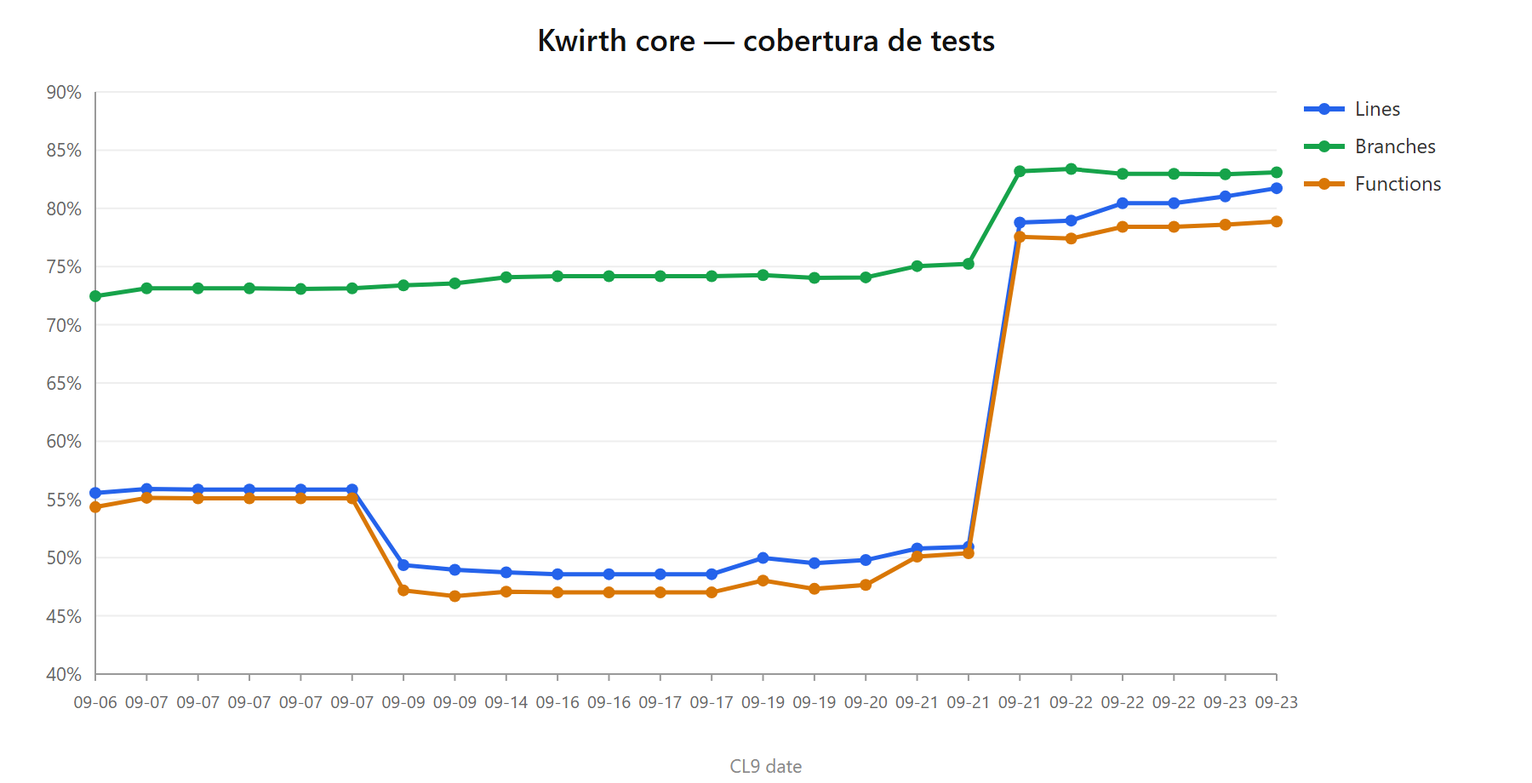
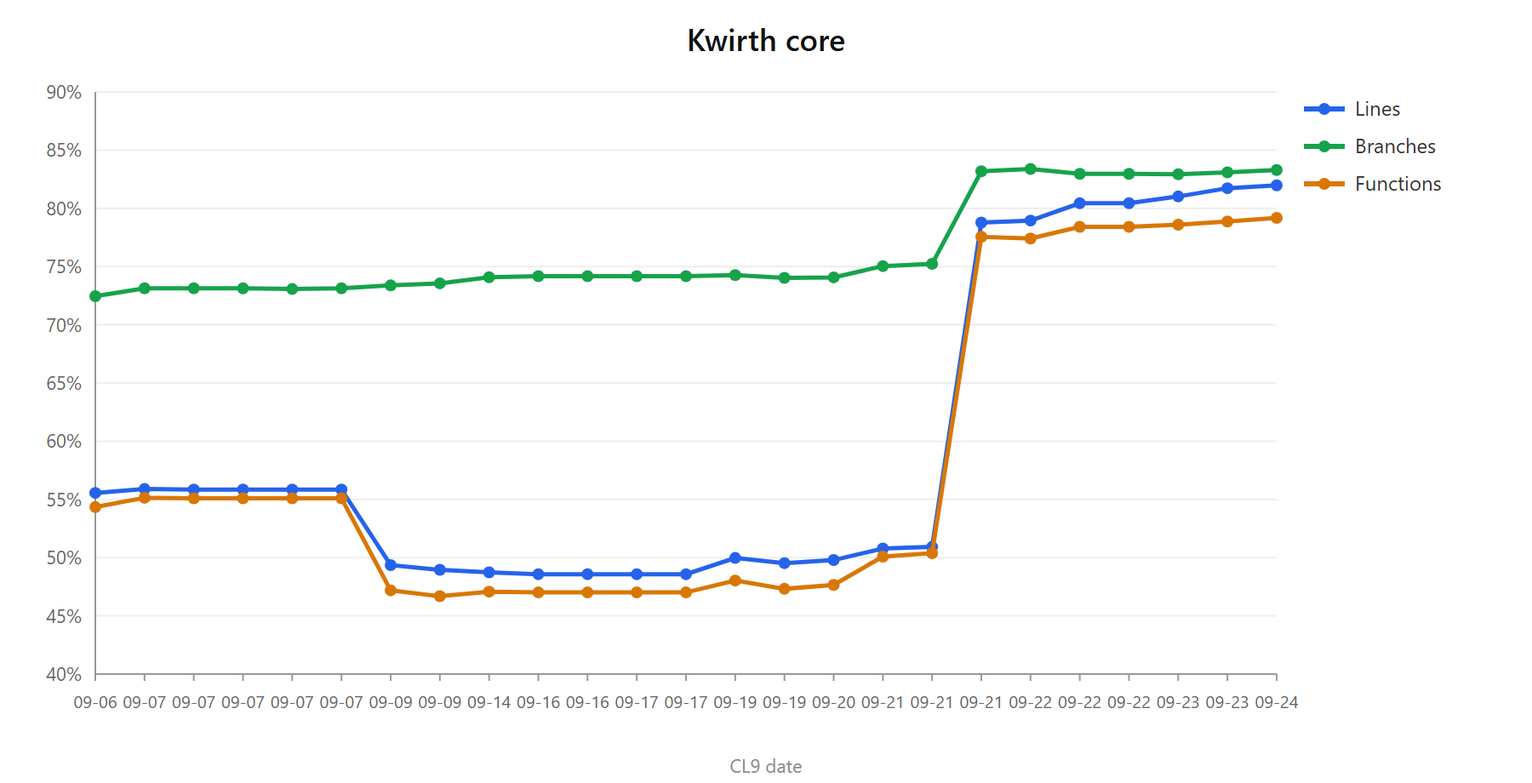
docs: retirar docker como fuente de la guia, y metricas del cierre
La documentacion prometia cosas que ya no son: el ejemplo de canal autonomo declaraba DOCKER en
sus sources, y las paginas de fileman, echo y news decian que funcionaban sobre targets Docker.
Las dos frases genericas de arquitectura que ponian Docker como ejemplo de 'fuente' pasan a
nombrar la unica que hay, o ninguna en el caso de un canal autonomo.

El historico de QA suma la fila del cierre y se regeneran sus dos PNG de una sola corrida de la
tool -que genera ambos, y llamarla dos veces deja un fichero de sobra-. El plan y el PRD recogen
la decision de abandonar docker-como-cluster con la prueba que la sostiene, y el descarte del
filtro de canales por sources: el core no decide por los plugins.

⚠ La corrida e2e completa queda aplazada por decision del usuario, para agruparla con otros
cambios; el recuento de specs y casos del historico es estatico.

diff --git a/plans/ecs/PLAN.md b/plans/ecs/PLAN.md
@@ -16,7 +16,7 @@ Cada stream cierra con su propia CL9 completa. **No hay fase de cierre acumulada
 
 ---
 
-## S1 — Arranque sin Kubernetes
+## S1 — Arranque sin Kubernetes ✅ (código completo el 2026-09-24, pendiente de QA manual)
 
 **MVP**: una tarea de ECS (Fargate) con la imagen actual arranca, sirve el front, permite login y
 persiste en EFS. Sin Kubernetes en ninguna parte, y **sin observar nada**: los canales autónomos
@@ -27,13 +27,13 @@ funcionan y eso ya es un despliegue completo.
 | S1.1 | **Capacidades en un solo sitio.** Una función que, del entorno detectado más las comprobaciones reales (¿socket del CRI?, ¿kubeconfig utilizable?), devuelva qué hay a mano y dónde se persiste. Es la pieza central del modelo (D1): todo lo demás pregunta aquí en vez de repetir condiciones sobre `runningEnv`. |
 | S1.2 | `getExecutionEnvironment()` aprende `ecs`: `ECS_CONTAINER_METADATA_URI_V4`, que el agente inyecta en **los dos** launch types. Va **antes** que la rama de Docker — en EC2 existe `/.dockerenv` y ganaría la partida. Escape por `FORCE`. |
 | S1.3 | `common`: publicar el entorno de ejecución en `KwirthData` en vez de tirarlo tras el `switch`, y **`EClusterType.NONE`** (D1-bis). Publicar `common` y subir la dependencia en back y front — no hay alias de TS, el back consume el paquete publicado. |
-| S1.4 | `clusterType` pasa a rellenarse **desde las capacidades**, no desde el entorno: hay socket → `DOCKER`, hay API de kube → `KUBERNETES`, ninguna → `NONE`. Con esto se enciende el **cable 1** de D2 y el camino de contenedores deja de estar cortocircuitado. |
-| S1.5 | **Cable 2** de D2: instanciar `clusterInfo.dockerApi` y `clusterInfo.dockerTools` cuando hay socket. Hoy no los asigna nadie y el primer `dockerTools.getAllPods()` reventaría. |
+| S1.4 | `clusterType` pasa a rellenarse **desde las capacidades**, no desde el entorno: hay API de kube → `KUBERNETES`, no la hay → `NONE`. |
+| S1.5 | Retirada de Docker como fuente de recursos (D2): el enum, `DockerTools`, `dockerode`, las ramas de `index.ts`, `ConfigApi` y el front, y los nueve plugins que lo declaraban. |
 | S1.6 | `createRunningInstance()` deja de exigir Kubernetes: sin kubeconfig utilizable no se construyen los clientes, no se llama a `readNamespace('kube-system')`, ni a `setKubernetesClusterName()`, ni a `getNodes()`. **No es un `try/catch` más ancho**: es una rama explícita, porque un `catch` que se traga el fallo convierte "no hay cluster" y "el cluster no responde" en el mismo silencio. |
 | S1.7 | Almacenamiento según capacidades: fichero (`NodeSecrets` + `NodeConfigMaps`, cifrado con `MASTERKEY`) o ConfigMap/Secret. Hoy la rama de fichero existe pero vive detrás del `else` de Kubernetes ([index.ts:400](../../back/src/index.ts#L400)). |
 | S1.8 | Identidad: `clusterName` de `KWIRTH_CLUSTER_NAME` o del metadata de ECS (cluster ARN / familia de tarea). |
 | S1.9 | Healthcheck (**D4**): que el ALB tenga algo a lo que preguntar, siempre, no sólo `inCluster`. |
-| S1.10 | Canales y providers de Kubernetes (**D5**): `metrics` y `events` no se arrancan si no hay API de kube, y el log de arranque lo dice con todas las letras. |
+| ~~S1.10~~ | **Descartado.** Se llegó a filtrar canales por sus `sources` y a no registrar `events`/`metrics` sin API de kube. Se retiró: **el core no decide por los plugins**. Un plugin arranca encima y se conecta a lo que pueda, y `sources` no decidía nada en ninguna parte —el front sólo lo imprimía como texto— hasta que este filtro le dio un significado que no tenía. |
 | S1.11 | Front: que `NONE` se entienda. [ResourceSelector.tsx:365](../../front/src/components/home/ResourceSelector.tsx#L365) decide el icono por la primera letra del valor, y [ManageClusters.tsx:80](../../front/src/components/home/ManageClusters.tsx#L80) lo enseña tal cual. Un Kwirth que no observa nada tiene que verse como lo que es, no como un desconocido. |
 | S1.12 | Log de arranque: entorno detectado, capacidades resultantes y **por qué** cada una. Es la primera herramienta de diagnóstico de quien despliega esto. |
 
@@ -47,7 +47,42 @@ funcionan y eso ya es un despliegue completo.
 - [ ] `docker compose` local: el canal de **log** funciona contra los contenedores, con los proyectos compose agrupados como "pods". Es el camino que estaba escrito y sin cablear, y en EC2 de ECS es exactamente el mismo.
 - [ ] **Regresión**: los tres entornos de hoy (in-cluster, desktop, contenedor con kubeconfig) se comportan **exactamente** igual que antes. Es el riesgo real de S1, porque se toca el único camino de arranque que existe.
 
-**CL9** al terminar. Los e2e de S1 necesitan decidirse: el arranque en ECS no es reproducible en el dev local, así que el harness cubre la **detección** y la **selección de almacenamiento** por unitarios, y el e2e cubre la regresión de los entornos existentes.
+### Lo que se encontró al implementarlo
+
+Tres cosas que el análisis previo no había visto y que habrían roto el arranque en Fargate:
+
+1. **`loadFromDefault()` también había que meterlo dentro de la rama.** El plan sólo contemplaba no
+   construir los clientes; pero cargar el kubeconfig, donde no hay ninguno, puede quejarse de que no hay
+   contexto actual — y esa excepción cae en el mismo `catch` que dejaba a Kwirth sin instancia. El síntoma
+   habría sido idéntico al que se quería arreglar.
+2. **Había una segunda detección de entorno**, en `runningEnv`, con reglas parecidas pero no idénticas a
+   las de `getExecutionEnvironment()`. Dos detecciones del mismo hecho acaban discrepando, así que ahora
+   `runningEnv` se deriva de la única. De paso desapareció `isDocker`, que ya no consultaba nadie.
+3. **Un segundo `switch` sobre el entorno**, el que elige qué arranque lanzar, con los mismos `case`
+   muertos. `launchDocker` pasó a `launchStandalone` y lo comparten `docker` y `ecs`: siguen exactamente
+   el mismo camino, y lo que cambia entre ellos son las capacidades, que ya vienen resueltas.
+
+Y un defecto latente en el front: `getIcon()` decidía por la **primera letra** del tipo de cluster, así
+que con `none` (`'n'`) no entraba en ninguna rama y **devolvía `undefined`**.
+
+### Cómo se verificó
+
+Sin ECS, levantando el back con el entorno forzado y almacenamiento en un directorio temporal:
+
+| escenario | resultado |
+|---|---|
+| **UC1** dev normal (Kubernetes) | `executionEnvironment: kubernetes`, `clusterType: kubernetes`, los 11 canales arrancan. Sin regresión |
+| **UC5** `docker run` con la imagen **anterior** | `clusterType: kubernetes`, busca `kube-system` en `localhost:8080` y acaba en `Cannot get a running instance`. El contenedor queda vivo pero devolviendo `503` — la prueba de que esa vía no estaba viva |
+| ECS sin kubeconfig (Fargate) | `executionEnvironment: ecs`, `clusterType: none`, `/healthz` 200, y el usuario admin creado y **cifrado** en el volumen |
+
+**UC2** (magnify desktop), **UC3** (Kwirth en docker con kubeconfig) y **UC4** (ECS con kubeconfig) no se
+verificaron aquí a propósito: los tres exigen conectarse a un cluster real con los plugins cargados, y eso
+puede disparar senders o webhooks de verdad. Van al QA manual.
+
+**CL9**: el harness cubre la detección, las capacidades y el store (14 casos nuevos, con las dos
+comprobaciones de máquina inyectadas para que no dependan de dónde se corra). El e2e cubre la parte
+observable —el entorno publicado, `/healthz` fuera del cluster y la coherencia de los canales
+anunciados— porque montar ECS en un e2e exigiría ECS.
 
 ---
 
@@ -115,6 +150,34 @@ type, los contenedores de su instancia.
 **CL9** al terminar.
 
 ---
+
+## Pendiente al cerrar el proyecto
+
+- **Publicar el back.** Lleva el bump de `kwirth-common` a `0.5.56` en su `package.json` desde el
+  2026-09-24, pero su publish en npm se hace **al terminar ECS**, no stream a stream. Decisión del
+  2026-09-24.
+- **Corrida e2e completa.** Aplazada el 2026-09-24 para agruparla con otros cambios: tarda ~33 min y dos
+  tandas se invalidaron por reinicios del back en mitad. Los 4 casos del spec nuevo sí pasan.
+- **`agora` no compila**, por `EInfraSource.CLOUD` —que el enum no declara— en `azureSignals.ts` y su
+  test. Es trabajo previo, ajeno a esto, y quedó **aparcado por decisión del usuario**. Mientras no
+  compile no se puede reconstruir su `dist`, así que seguirá mostrando el hueco en sus `sources`.
+- **Actualizar los plugins instalados.** Publicar no actualiza lo que un Kwirth tiene puesto: en el dev,
+  `log` seguía en 0.2.23 y por eso mostraba `[,kubernetes]`. Hay que actualizarlos desde el gestor.
+
+## Hallazgos laterales, al backlog
+
+- Las entradas de **docs** en el manifest privado se llaman `Kwirth <X> — Guide`, pero el criterio de los
+  artefactos de pago es `IRIA <Producto> — Guide`. Visto al clonar las entradas de spectrum, sugarless y
+  asteroids; **no se tocó** para no cambiar naming publicado de paso.
+
+## Publicaciones hechas
+
+| fecha | artefacto | versión | por qué |
+|---|---|---|---|
+| 2026-09-24 | `kwirth-common` | 0.5.55 | `EExecutionEnvironment`, `EClusterType.NONE` y el campo `executionEnvironment` |
+| 2026-09-24 | `kwirth-common` | 0.5.56 | `EClusterType.DOCKER` retirado del enum (D2) |
+| 2026-09-24 | `log` 0.2.24 · `alert` 0.2.25 · `status` 0.2.2 · `news` 0.2.24 · `sender-debug` 0.1.1 · `echo` 0.2.24 · `mirc` 0.1.14 · `fileman` 0.2.24 · `provider-debug` 0.1.5 | — | los nueve declaraban `DOCKER` en sus `sources`; `log` y `alert` además tenían `startDockerStream()`. npm + manifest público |
+| 2026-09-24 | `spectrum` 0.4.3 · `sugarless` 0.2.3 · `asteroids` 0.1.7 | — | lo mismo, en los privados. Nexus + manifest privado, **plugin y docs en lockstep** |
 
 ## Riesgos
 

diff --git a/docs/qa/test-metrics-history.md b/docs/qa/test-metrics-history.md
@@ -38,6 +38,7 @@
 
 | Fecha | Cierre | Harness | Cobertura (líneas / ramas / funcs) | e2e | Notas |
 |---|---|---|---|---|---|
+| 2026-09-24 | Kwirth arranca sin Kubernetes (S1 de ECS) | **455** ✅ | **81.98 % / 83.29 % / 79.18 %** | 40 specs · 135 casos ⚠ | **Todo camino de arranque presuponía un cluster alcanzable, así que Kwirth no podía correr donde no hay Kubernetes.** `createRunningInstance()` montaba siempre los clientes de Kubernetes y pedía el uid de `kube-system`; sin cluster eso lanzaba, lo tragaba el `catch` y el arranque terminaba **sin instancia** — con el proceso vivo escuchando y devolviendo `503`, que es el peor modo de fallo porque parece arrancado. En **Fargate** ni se llegaba ahí: no existe `/.dockerenv` (es containerd), así que el entorno salía `undetected` y el proceso se cerraba. Ahora el entorno de ejecución se detecta con `ecs` incluido, **se publica** en `KwirthData` en vez de perderse al acabar el switch, y de él se derivan en **un solo sitio** (`ExecutionEnvironment.ts`) las capacidades que el arranque necesita: si hay API de Kubernetes y dónde se persiste. Los clientes de Kubernetes —y el propio `loadFromDefault()`, que también puede quejarse sin kubeconfig— quedan dentro de una **rama explícita**, no de un `catch` más ancho: un `catch` convierte "aquí no hay cluster, y está bien" y "el cluster no responde, y eso es un problema" en el mismo silencio. `/healthz` deja de estar atado a `inCluster`, porque un balanceador que no obtiene respuesta recicla la tarea en bucle sin decir por qué. **Y se retiró Docker como fuente de recursos**: se comprobó con un `docker run` sobre la imagen publicada que esa vía **no estaba viva** (`clusterType: kubernetes`, `FetchError` contra `localhost:8080`, `Cannot get a running instance`) — nadie producía `EClusterType.DOCKER` y nadie asignaba `clusterInfo.dockerTools`. Fuera el enum (`common` 0.5.56), `DockerTools.ts`, `dockerode`, `watchDockerPods()`, 10 ramas entre `index.ts` y `ConfigApi.ts`, 8 usos de `isDocker` en el front —incluido un `if/else` con **las dos ramas idénticas**— y `startDockerStream()` de `log` y `alert`. ⚠ **El enum es un contrato de RUNTIME**: los plugins no empaquetan `kwirth-common`, lo resuelven contra el global del core, así que quitarle un valor deja en `undefined` a todo `dist` ya construido que lo nombre — lo destapó el usuario viendo `[,kubernetes]` en la lista de sources. Por eso hubo que republicar **12 artefactos**: 9 plugins públicos y 3 privados (con sus docs en lockstep). **+14 tests** sobre la detección, las capacidades y el store, con la comprobación de kubeconfig **inyectada** para que no dependan de la máquina donde se corran. ⚠ **La corrida e2e completa NO se hizo**: se aplazó por decisión del usuario para agruparla con otros cambios; el recuento de specs y casos es estático. Sí pasan los 4 casos del spec nuevo `execution-environment`, y el QA manual validó log, el selector de recursos y los nueve canales republicados. |
 | 2026-09-23 | Actualizar una extensión sin desinstalarla | **441** ✅ | **81.73 % / 83.09 % / 78.87 %** | 31 specs · 143 casos | **Subir de versión obligaba a desinstalar primero, y eso se lleva por delante la configuración.** El `install()` de los managers ya reemplazaba por dentro todo lo que hay que reemplazar —índice, código cacheado, módulo del back recargado con `delete require.cache`—: lo único que lo impedía era un guardián copiado nueve veces que rechazaba cualquier id ya instalada. Ahora el permiso es **explícito** (`upgrade` en el POST) y vive en **un solo sitio**, `tools/ExtensionInstallGuard.ts`, que además impide ir hacia atrás: volver a una versión anterior deja el índice diciendo una cosa y la configuración, que no se toca, pensada para otra. **Y lo instalado pasa a ser EXACTAMENTE lo que trae el paquete.** Varias escrituras eran condicionales (`if (meta.frontStored) write(...)`), y saltarse una no deja la clave vacía: la deja con el contenido de la versión ANTERIOR. Un login que deja de traer fondo seguía pintando el de antes; un sender cuyo front deja de caber en el ConfigMap seguía sirviendo el viejo; un provider que retira su esquema seguía enseñando su formulario. Las seis escrituras condicionales pasan a `write(clave, cabe ? valor : null)`, que **borra**. En el front, la acción nueva entra en `ExtensionManagerDialog` —el genérico— así que sale de una vez en los **once tipos y en las dos vistas**, tarjeta y lista; va **entre configurar y la papelera** y está **siempre visible**, deshabilitada con el motivo, porque un botón que aparece y desaparece mueve la papelera al sitio donde estaba el update de la fila de arriba. **Tres casos que el aviso de reinicio no sabía decir**: `ERestartAction.UPDATE` con su propio texto —la extensión no es que no vaya a funcionar, es que sigue funcionando la de ANTES— y se mira `requiresRestart` en **las dos**, la que se va y la que llega, porque el router de la vieja sigue montado aunque la nueva ya no declare ninguno. Un **pack** es el único que no se actualiza en sitio (instalarlo rechaza también si alguno de sus miembros está puesto) y el botón lo dice en vez de ofrecer algo que va a fallar. **+14 tests** (el guardián suelto, y de punta a punta sobre `LoginManager` y `SenderManager`: que el fondo y el front de la versión anterior desaparecen, y que no se borra de más cuando la nueva sí los trae) **+1 spec e2e con 6 casos**, que no pulsa ningún update —actualizar de verdad cambiaría las extensiones del usuario— y fija en una lista los ocho tooltips posibles del botón. ⚠ De paso se arregló un defecto del propio e2e: `extension-catalogs` usaba `isVisible({ timeout })`, que **no espera** por mucho timeout que se le pase, así que los últimos de los once diálogos se preguntaban con la máquina cargada y respondían que no había catálogo cuando lo que faltaba era un pintado. |
 | 2026-09-23 | 0.6.31 | **427** | **81.02% / 82.93% / 78.60%** | 30 / 84 | **Una extension rota deja de tumbar la aplicacion, y las extensiones que RECIBEN dejan de pelearse con el core.** Cuatro arreglos que salieron de un mismo dia de trabajo con un provider de ingesta y un sender de log: **(1)** `getChannelIconSafe` aceptaba como valido un icono cuyo `type` era un objeto —un plugin con un deep import recibe el BARREL entero, y un objeto es truthy—, asi que la home se quedaba EN BLANCO con un simple 'got: object'; ahora se comprueba que el tipo sea renderizable y los seis sitios que pedian el icono a pelo pasan por ahi. **(2)** `ChannelErrorBoundary`: un canal que revienta al pintarse se lleva SU pestaña y un mensaje con su nombre, no la aplicacion. **(3)** El `bodyParser.json()` global se aplicaba antes que los routers publicos de los providers, asi que una extension de ingesta recibia el cuerpo ya parseado —imposible soportar ndjson— y con el limite de 100 kB, que un recolector de log supera sin esfuerzo; ahora existe **`rawBody`** en `IProvider` con un middleware que pone `express.raw` por delante (el patron que ya usaban los webhooks) y el limite es configurable con **`BODYLIMIT`**. **(4)** Node cierra las conexiones ociosas a los 5 s y quien nos envia las REUTILIZA: se sube a 65 s, configurable con **`KEEPALIVE`**, porque del otro lado ese corte se lee como 'kwirth no esta escuchando'. Y dos que destapo el QA del reenvio: **un sender recargado en dev perdia sus configuraciones en silencio** (el rebuild tira la instancia y la nueva nacia vacia; la lista seguia mostrandolas porque sale del almacen del core, no de la instancia), y **un booleano apagado no se guardaba**, solo se omitia — asi que una extension cuyo defecto fuera `true` lo volvia a encender y el interruptor se veia apagado mientras se comportaba como encendido. |
 | 2026-09-22 | Entrega por LOTES y el origen dentro del mensaje (S1 del reenvío de log) | **426** ✅ | 80.44 % / 82.96 % / 78.41 % | 37 specs · 121 casos | Primer stream de la cadena Fluent Bit → kwirth → destino. `send` entrega **un mensaje por llamada** con su propio `await`: perfecto para un aviso, inviable para un caudal de log —un round trip por línea— cuando los destinos que se comen volumen aceptan arrays y **cobran por petición**. Se añade `sendBatch?()` **opcional** en `ISenderAccess` (`kwirth-common@0.5.54`) y en `ISender` (`kwirth-common-back@0.5.48`), con un `await` por **lote**, y `SenderManager.sendBatch()` lo reparte: una llamada a quien lo implemente, **entrega de uno en uno a quien no** — esa compatibilidad es lo que hace que el contrato pueda ser opcional sin romper a ningún sender existente. Y el **origen viaja en el mensaje**: `ISenderMessageOrigin` (cluster, namespace, pod, container, source, service, timestamp) como **campo propio**, no dentro de `metadata`, que es JSON libre — un acuerdo tácito ahí se rompe en cuanto hay dos senders, y un destino solo puede etiquetar lo que le llega etiquetado. **+8 tests**: el lote llega entero en una llamada, el orden se respeta en el camino de compatibilidad, el origen llega intacto, un fallo **no sube al llamante** (el reenvío no puede tumbar a quien produce el log) y una línea que falla no cancela las siguientes. ℹ Sin e2e: es contrato sin consumidor todavía —nadie llama a `sendBatch` hasta el S3— y no tiene UI; su QA fue de no regresión de los senders vivos. ⚠ Lección de secuencia: se publicaron los contratos y se siguió tocando el core mientras npm propagaba, dejando el back del usuario sin compilar. Publicar, **esperar a poder instalar**, y entonces tocar el core. |

diff --git a/plans/ecs/PRD.md b/plans/ecs/PRD.md
@@ -73,16 +73,16 @@ resuelto por el propio cluster:
 
 ### 4.3 Qué puede observar desde ECS
 
-- **Nada** — y es una configuración completa, no un arranque a medias. Los canales autónomos funcionan,
-  el front se sirve, los usuarios entran y los providers de ingesta reciben. Es el caso que hoy es
-  imposible, porque el arranque exige un cluster.
-- **Kubernetes** — con kubeconfig montado (EFS o Secrets Manager). Es el modo que ya funciona.
-- **Cloud** — vía los providers correspondientes, con las credenciales que cada uno pida.
-- **Otros servicios ECS** — dos caminos, y no dan lo mismo:
-  - **EC2 launch type**: bind-mount de `/var/run/docker.sock` → los contenedores de *esa* instancia, como
-    el modo Docker local. Sólo esa instancia, no el cluster ECS entero.
-  - **Fargate**: no hay socket ni acceso al host. El camino es la **ingesta**: FireLens (Fluent Bit como
-    sidecar) mandando el log de las otras tareas al provider `fluentbit`, o OTLP al provider `otel`.
+- **Kubernetes** — con kubeconfig montado (EFS o Secrets Manager). Los canales funcionan **exactamente
+  igual** que en un Kwirth in-cluster: la conexión es por la API de Kubernetes con las credenciales del
+  kubeconfig, y eso es transparente para ellos. El core no hace nada especial.
+- **Nada** — y es una configuración completa, no un arranque a medias: el front se sirve, los usuarios
+  entran, los canales autónomos funcionan, los providers de ingesta reciben, y desde ahí se **federa**
+  contra otro Kwirth. Es el caso que hoy es imposible, porque el arranque exige un cluster.
+- **Cloud** — vía los providers correspondientes, con las credenciales que cada uno pida. Un plugin
+  arranca y se conecta a lo que pueda; eso no es asunto del core.
+
+> **Lo que NO hace**: gestionar las tareas o los contenedores de ECS como recursos propios. Ver **D2**.
 
 ### 4.4 Documentación y ejemplos
 
@@ -130,48 +130,60 @@ están repartidas entre `runningEnv.isDesktop`, `runningEnv.isDocker`, `kwirthDa
 `clusterType` a lo largo de todo el arranque, y esa dispersión es lo que hace que añadir un entorno nuevo
 sea un trabajo de riesgo.
 
-| entorno | socket CRI | API de Kubernetes | store |
-|---|---|---|---|
-| `kubernetes` (in-cluster) | no | sí | ConfigMap/Secret |
-| `docker` | **sí** (compose incluido) | si hay kubeconfig | fichero |
-| `desktop` | no | kubeconfig local | fichero |
-| `ecs` / EC2 | **sí** (bind-mount del socket) | si hay kubeconfig | fichero (EFS) |
-| `ecs` / Fargate | no | si hay kubeconfig | fichero (EFS) |
+| entorno | API de Kubernetes | store |
+|---|---|---|
+| `kubernetes` (in-cluster) | sí, no es opcional | ConfigMap/Secret |
+| `docker` | si hay kubeconfig | fichero (formato histórico) |
+| `desktop` | kubeconfig local | fichero cifrado |
+| `ecs` (los dos launch types) | si hay kubeconfig | fichero cifrado (EFS) |
 
-> **ECS sobre EC2 no necesita código de observación nuevo: es el camino de Docker corriendo en otro
-> sitio.** Desbloquear Docker y desbloquear ECS son el mismo trabajo, no dos.
+> El socket del CRI no aparece en esta tabla: ver **D2**. Los cuatro entornos observan un cluster o no
+> observan nada, y en los dos launch types de ECS la respuesta es la misma — lo que cambia entre Fargate
+> y EC2 no afecta a lo que Kwirth puede hacer.
 
 > **D1-bis. `EClusterType` gana `NONE`.** Hace falta de verdad: en Fargate sin socket y sin kubeconfig no
 > hay ni contenedores ni pods, y declararse `KUBERNETES` haría que el front saliera a listar pods contra
 > nada. Afecta a [ResourceSelector.tsx:365](../../front/src/components/home/ResourceSelector.tsx#L365),
 > que decide el icono por la **primera letra** del valor (`'d'` → Docker, `'k'` → Kubernetes).
 
-**D2. `EClusterType.DOCKER` se revive. ✅ Validado.** Se le da detección real en vez de retirarlo, porque
-es el camino por el que Kwirth ve contenedores —los de un `docker compose` local, o los de una instancia
-EC2 de ECS— a través de `/var/run/docker.sock`. Sin eso, EC2 se queda con lo mismo que Fargate y el launch
-type deja de aportar nada.
+**D2. Docker deja de ser una fuente de recursos, y se retira. ✅ Decidido el 2026-09-24.**
 
-Y no es trabajo de implementación, es de **cableado**. Lo que hay ya:
+> Esta decisión **sustituye** a la anterior, que era revivir `EClusterType.DOCKER` dándole detección real.
+> Se mantiene escrita abajo porque explica lo que se encontró, y porque el estado del código era lo que
+> llevó a proponerlo.
 
-- `DockerTools` ([DockerTools.ts](../../back/src/tools/DockerTools.ts)) entiende **compose**: lee las
-  labels `com.docker.compose.project` y `.service`, mapea proyecto → "pod" y servicio → "container", y
-  cuelga los contenedores sueltos del pseudo-pod `$docker`.
-- Las ramas que lo consumen están escritas en los cuatro puntos que el canal de log necesita:
-  `watchPods` ([index.ts:697](../../back/src/index.ts#L697)), la resolución de pods
-  ([:721](../../back/src/index.ts#L721)), la validación de nombres
-  ([:1172](../../back/src/index.ts#L1172)) y `ConfigApi` ([:200](../../back/src/api/ConfigApi.ts#L200)).
+Kwirth **no va a gestionar contenedores ni proyectos de `docker compose` como si fuesen un cluster**.
+Docker sigue siendo un sitio **donde correr** —eso lo dice `EExecutionEnvironment`—, y desde ahí se
+federa contra otro Kwirth o se apunta a un cluster montando un kubeconfig, que es el caso paralelo a ECS.
 
-Lo que falta son **dos cables**:
+Se comprobó **empíricamente** que esa vía no estaba viva, con un `docker run` sobre la imagen publicada:
 
-1. **Nadie produce `EClusterType.DOCKER`.** Sólo salía de los `case 'windowsdocker'/'linuxdocker'`
-   ([index.ts:2812](../../back/src/index.ts#L2812)), que la detección no devuelve. El `exenv === 'docker'`
-   que sí se detecta acaba en `clusterType: KUBERNETES` ([:2822](../../back/src/index.ts#L2822)): el
-   camino de contenedores queda cortocircuitado hacia el de kubeconfig.
-2. **Nadie asigna `clusterInfo.dockerApi` ni `clusterInfo.dockerTools`.** Están declarados con `!` en
-   [ClusterInfo.ts:30](../../back/src/model/ClusterInfo.ts#L30) —"confía, alguien los rellenará"— y no hay
-   un solo `new DockerTools(...)` en el back. El único `new Docker()` es el que `ConfigApi` se hace para
-   sí mismo ([:19](../../back/src/api/ConfigApi.ts#L19)). Encender sólo el cable 1 reventaría en el primer
-   `dockerTools.getAllPods()`.
+```
+"clusterName": "inDocker",
+"clusterType": "kubernetes",        ← no 'docker'
+FetchError: request to http://localhost:8080/api/v1/namespaces/kube-system failed
+Cannot get a running instance
+```
+
+El contenedor se queda vivo escuchando en el 3883 pero **sin instancia**: cualquier petición responde
+`503`. Es el peor modo de fallo, porque parece arrancado.
+
+Por qué no podía funcionar, y son dos motivos independientes:
+
+1. **Nadie producía `EClusterType.DOCKER`.** Sólo salía de los `case 'windowsdocker'/'linuxdocker'`, que
+   la detección no devolvía nunca; el `'docker'` que sí se detectaba asignaba `KUBERNETES`.
+2. **Nadie asignaba `clusterInfo.dockerApi` ni `dockerTools`.** Estaban declarados con `!` y no había un
+   solo `new DockerTools(...)` en el back.
+
+Lo que sí estaba escrito —y era bueno— es que **`dockerTools` no era código muerto del core: era API que
+el core ofrecía a los plugins**. Los canales `log` y `alert` tenían su `startDockerStream()` completo,
+eligiendo por `clusterInfo.type`. Esa es la parte que se retira.
+
+Alcance de la retirada: `EClusterType.DOCKER` fuera del enum (`common` 0.5.56), `DockerTools.ts` borrado,
+`dockerode` fuera de las dependencias del back, `watchDockerPods()` y las ramas de `index.ts` y
+`ConfigApi.ts` eliminadas, `dockerApi`/`dockerTools` fuera de `ClusterInfo`, las ramas `isDocker` del
+`ResourceSelector` del front, y los **nueve plugins** que declaraban `DOCKER` en sus `sources` —`log` y
+`alert` además con su `startDockerStream()`.
 
 **D3. Detección de ECS: señal canónica + escape.** `ECS_CONTAINER_METADATA_URI_V4`, que el agente inyecta
 en **los dos** launch types, más `FORCE=ecs` para poder forzarlo. La comprobación va **antes** que la de

diff --git a/plans/README.md b/plans/README.md
@@ -28,9 +28,10 @@ meses después — que es exactamente lo que pasaba antes de escribir este índi
 | [geppetto](geppetto/PRD.md) | analizador LLM de propósito general (PRD) | la decisión 6; sin código todavía |
 | [pluvider](pluvider/PLAN.md) · [PRD](pluvider/PRD.md) | un plugin que además expone su información in-process | MVP en producción (agora y montag publican, provider-debug consume); queda la fase 2: `ask()`, `publications[]` y el descubrimiento en runtime |
 | [gate](gate/PRD.md) | la pantalla de acceso como extensión programable | borrador |
-| [ecs](ecs/PLAN.md) · [PRD](ecs/PRD.md) | desplegar Kwirth en AWS ECS (Fargate y EC2) con la misma imagen | todo. Bloqueado por las decisiones del PRD §6: hoy el core **no arranca sin un Kubernetes alcanzable**, así que antes de los ejemplos hay que desbloquear el arranque |
+| [ecs](ecs/PLAN.md) · [PRD](ecs/PRD.md) | desplegar Kwirth en AWS ECS (Fargate y EC2) con la misma imagen | **S1 hecho**: el core ya arranca sin Kubernetes, y de paso se retiró Docker como fuente de recursos (12 artefactos republicados). Quedan S2 (qué se observa), S3 (el proyecto `ecs/` con los ejemplos) y S4 (documentación). Pendientes del cierre: publicar el back y una corrida e2e completa |
 | [config-portability](config-portability/PLAN.md) · [PRD](config-portability/PRD.md) | llevarse la configuración de un Kwirth a otro | core, front y las open source con configuración, hechos; quedan Excubitor y Agora, que son la prueba de fuego |
 | [previous-container-log](previous-container-log/PLAN.md) | ver en el About el log del contenedor anterior cuando el core reinicia | en producción; solo queda el S2 (el ajuste en los settings, que arrastra publicar `kwirth-common`) |
+| [provider-handle](provider-handle/PLAN.md) | lo que el core entrega a un consumidor deja de ser el `IProvider` real: un handle por (canal, instancia) | todo, sin empezar. Espera a que termine el refactor en curso del core. Lleva además dos averías abiertas en su backlog: `started` significa "router montado" y no "arrancado", y el registro de aristas borra la arista con la primera baja |
 
 ## Cerrados
 

diff --git a/docs/0.6.31/developing/back.md b/docs/0.6.31/developing/back.md
@@ -43,7 +43,7 @@ interface IChannel {
 
 And this is a short explanation on each function:
 
-  - `getChannelData`. The back channel must implement this function to inform kwirth core which capabilities does it support. This refers to things like 'pausing', 'reconnecting', source support (Kubernetes, MesOS, Docker...), routing, metrics, etc.
+  - `getChannelData`. The back channel must implement this function to inform kwirth core which capabilities does it support. This refers to things like 'pausing', 'reconnecting', source support (Kubernetes, or none for an autonomous channel), routing, metrics, etc.
   - `getChannelScopeLevel`. Your channel may need to offer different scope levels to your users. For example, in the metrics channel the clients can just do SNAPSHOT (obtaining a set of metrics and its values) or do STREAM (that is, obtaining metrics through a stream of data implemented as an instance inside a WebSocket). This function returns an id that kwirth core uses for deciding if a specific user has an Access Key with a scope for performing the function he requested.
   - `endpointRequest`. If your channel will receive HTTP requests from your clients once the channel is started you need to provide this function implementation. When a connected client performs an HTTP POST to your channel, the kwirth request processor will send you the request by means of this function. See a working example in Trivy channel or Fileman channel.
   - `websocketRequest`. If your channel will receive WebSocket connection requests from your clients once the channel is started, you need to provide this function implementation. See a working example in Magnify channel.

diff --git a/docs/0.6.31/guide/extensions/plugins/fileman.md b/docs/0.6.31/guide/extensions/plugins/fileman.md
@@ -8,7 +8,7 @@
 
 The **Fileman** channel turns any running container into a **remote file manager**, right inside kwirth. It lets you **browse the container's filesystem**, **view and edit** text/config files in place, and **upload, download, copy, move, rename, create and delete** files and folders — all without `kubectl cp`, `kubectl exec` or shelling in.
 
-It works entirely over the cluster's **exec API** (the same channel a `kubectl exec` uses), so there's nothing to install inside the container. It is available for both **Kubernetes** and **Docker** sources.
+It works entirely over the cluster's **exec API** (the same channel a `kubectl exec` uses), so there's nothing to install inside the container.
 
 > Because Fileman drives standard shell commands (`ls`, `cat`, `mv`, `cp`, `rm`, `mkdir`, `tar`) inside the target, the container must have a **shell and coreutils**. Minimal/**distroless** images (no `sh`, no `ls`) won't expose a filesystem here.
 
@@ -97,7 +97,7 @@ Fileman moves data in every direction — in, out, and between containers.
 ## Admin guide
 
 - **Install / remove:** **☰ → Manage extensions → Plugins** → install **Fileman**.
-- **Sources:** works on **Kubernetes** and **Docker** targets.
+- **Sources:** works on **Kubernetes** targets.
 - **Permissions (scopes):** grant on the target objects —
   - **`fileman$read`** — browse, view, download.
   - **`fileman$write`** — everything read can do, **plus** edit/save, upload, create, rename, move/copy and delete.

diff --git a/docs/0.6.31/channelarch.md b/docs/0.6.31/channelarch.md
@@ -76,7 +76,7 @@ Starting in kwirth 0.3 and ending in kwirth 0.4, kwirth features are implemented
 
 When you create a kwirth channel you must understand that the channel is split into two different artifacts:
 
-  - **Back channel**, that is, a kwirth core extension that receives requests from clients and interacts with your source (Kubernetes, Docker or whatever it be).
+  - **Back channel**, that is, a kwirth core extension that receives requests from clients and interacts with your source (a Kubernetes cluster, or none at all — an autonomous channel takes its data from somewhere else entirely).
   - **Front channel**, is an extension artifact to be loaded into front application, it handles user interaction and communicates with backend. Please keep in mid kwirth core is not strongly coupled to kwirth front end, you can implement your own kwirth clients. When we talk about front channels, we are referring to plugins to be added to **kwirth front React application**.
 
 Front channels communicate with back channels through an open websocket that kwirth front app and kwirth core use for data streaming.

diff --git a/docs/0.6.31/guide/extensions/plugins/echo.md b/docs/0.6.31/guide/extensions/plugins/echo.md
@@ -52,7 +52,7 @@ The header tracks **Lines / Max**, the **Interval**, and the **Status**.
 
 - **Install / remove:** **☰ → Manage extensions → Plugins** → install **Echo**.
 - **Permissions (scopes):** **`none`** and **`cluster`**. See [Security & permissions](../../admin/04-security-and-permissions).
-- **Sources:** Kubernetes and Docker.
+- **Sources:** Kubernetes.
 - **Senders:** if you set a **Sender config**, Echo's lines are forwarded there — the perfect way to validate a sender without a real log source.
 
 ## Notes

diff --git a/docs/0.6.31/guide/extensions/plugins/news.md b/docs/0.6.31/guide/extensions/plugins/news.md
@@ -44,7 +44,7 @@ The header shows the **item count / max** and the **Status**. Each entry has a *
 - **Install / remove:** **☰ → Manage extensions → Plugins** → install **News**.
 - **Permissions:** none special — any user who can open the channel can use it.
 - **Network:** the channel fetches **public RSS feeds over the internet**, so the kwirth backend needs outbound access to those sources.
-- **Sources:** Kubernetes and Docker.
+- **Sources:** Kubernetes.
 
 ## Notes
 

diff --git a/docs/0.6.31/plugins/autonomous.md b/docs/0.6.31/plugins/autonomous.md
@@ -52,7 +52,7 @@ class MyAppChannel implements IChannel {
         id: 'my-app',
         routable: false, pauseable: false, modifiable: false,
         reconnectable: true, metrics: false,
-        sources: [EClusterType.KUBERNETES, EClusterType.DOCKER],
+        sources: [EClusterType.KUBERNETES],
         endpoints: [], websocket: false,
         cluster: false,      // ← autonomous
         resourced: false     // ← autonomous
